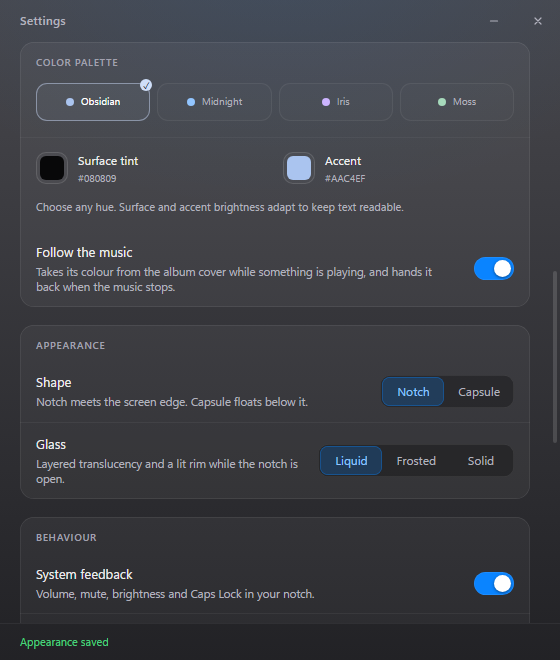
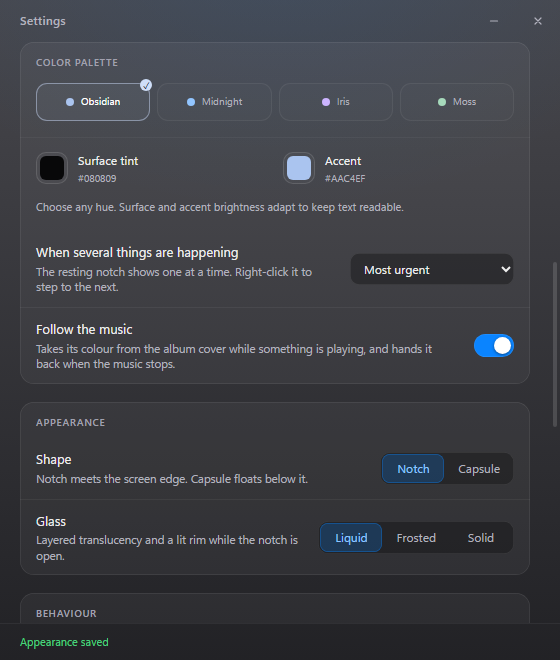
One activity on the notch at a time, and the user picks which
Music, a working agent and a countdown were all drawing into the same
strip of pixels, which is why the artwork, the run time and the
waveform overlapped into something unreadable. Exactly one of them has
the resting notch now. The Settings preference chooses, when the thing
it names is live; otherwise urgency decides, in the order the notch
already used — a transfer has an end someone is waiting on, a countdown
was set deliberately and already took the notch from music, music is
what people glance down at, and the agent is the least glanceable of
the four, so it yields by default.

Right-click steps to the next live activity, and a pair of dots in the
corner says there is one to step to. Left-click still opens the panel,
and now opens whatever the notch is showing rather than a fixed guess.

Claude's mark is the real one, from simple-icons, whose icon files are
CC0. There is no OpenAI mark: simple-icons does not carry one, which is
what happens when a brand asks to be left out, and taking a logo from a
brand page against that signal is not a call worth making inside
someone else's repository. Codex gets a mark of our own until an asset
arrives with permission attached. Provenance is in
THIRD_PARTY_NOTICES.md.

Tests: 17 unit suites and 135 renderer checks, including that two live
activities produce one visible chip and that the right button cycles.

diff --git a/src/renderer/renderer.js b/src/renderer/renderer.js
@@ -120,11 +120,59 @@ function geometryFor(name) {
   return SIZES.closed;
 }
 
-/** Nothing playing, parked, running or in flight: the notch paints nothing. */
+/**
+ * What the resting notch is for, when several things are happening at once.
+ *
+ * Music, a working agent and a countdown all want the same few pixels, and
+ * before this they simply drew on top of each other. Only one of them gets
+ * the notch: the one the user asked for if it is live, otherwise the first
+ * of these that is.
+ *
+ * The order follows what the notch already did. A transfer has an end
+ * someone is waiting on. A countdown was set deliberately and already took
+ * the notch from music. Music is the thing people glance down at constantly.
+ * A working agent is the newest of the four and the least glanceable, so it
+ * yields by default — and the preference is there for anyone who disagrees.
+ */
+const FOCUS_ORDER = ['transfer', 'timer', 'music', 'agent'];
+
+function liveActivities() {
+  return FOCUS_ORDER.filter((name) => (
+    name === 'transfer' ? transferActive
+      : name === 'agent' ? document.body.classList.contains('ai-working')
+        : name === 'timer' ? timerState.hasSession
+          : mediaVisible));
+}
+
+let focusOverride = null;
+
 function refreshIdle() {
-  const busy = mediaVisible || activeNotice || shelfItems.length || timerState.hasSession || transferActive
-    || document.body.classList.contains('ai-working') || document.body.classList.contains('ai-waiting');
+  const live = liveActivities();
+  const busy = live.length || activeNotice || shelfItems.length
+    || document.body.classList.contains('ai-waiting');
   document.body.classList.toggle('is-idle', !busy);
+
+  // The override only survives while the thing it points at is still live.
+  if (focusOverride && !live.includes(focusOverride)) focusOverride = null;
+  const preferred = preferences.notchFocus && preferences.notchFocus !== 'auto' ? preferences.notchFocus : null;
+  const focus = focusOverride
+    || (preferred && live.includes(preferred) ? preferred : null)
+    || live[0] || 'none';
+  document.body.dataset.focus = focus;
+  // More than one live activity is what makes the notch worth cycling.
+  document.body.classList.toggle('multi-activity', live.length > 1);
+  els.closedTrigger.dataset.live = String(live.length);
+}
+
+/** Step to the next live activity, so a crowded notch stays browsable. */
+function cycleFocus() {
+  const live = liveActivities();
+  if (live.length < 2) return false;
+  const current = document.body.dataset.focus;
+  focusOverride = live[(live.indexOf(current) + 1) % live.length];
+  refreshIdle();
+  renderAiSessions();
+  return true;
 }
 
 function applyVisualState() {
@@ -425,6 +473,7 @@ function flashFooter(message) {
 function setMediaVisible(visible) {
   if (visible === mediaVisible) return;
   mediaVisible = visible;
+  refreshIdle();
   if (state !== 'peek') {
     document.body.classList.toggle('has-media', visible);
     return;
@@ -797,8 +846,19 @@ card.addEventListener('mouseleave', pointerLeft);
 notch.onPointer((inside) => inside ? pointerEntered() : pointerLeft());
 notch.onDismiss(dismissOutside);
 
+const FOCUS_TAB = { transfer: 'send', agent: 'ai', timer: 'timer', music: 'media' };
+
 els.closedTrigger.addEventListener('click', () => {
-  openNotch(timerState.hasSession ? 'timer' : mediaVisible ? 'media' : 'send');
+  // Open whatever the notch is currently showing, so the click lands where
+  // the user is looking rather than on a fixed guess.
+  openNotch(FOCUS_TAB[document.body.dataset.focus] || (shelfItems.length ? 'send' : activeTab));
+});
+
+// Several things live at once: the right button steps between them. The left
+// button keeps opening the panel, which is the gesture people already know.
+els.closedTrigger.addEventListener('contextmenu', (event) => {
+  if (!cycleFocus()) return;
+  event.preventDefault();
 });
 document.querySelector('.layer-peek').addEventListener('keydown', (event) => {
   if (event.target !== event.currentTarget) return;
@@ -1196,9 +1256,12 @@ function paintClosedAgent(now = Date.now()) {
   const running = AiState.sortSessions(aiSessions, now)
     .filter((session) => AiState.kindOf(session, now) === 'working')
     .sort((a, b) => (a.startedAt || now) - (b.startedAt || now))[0];
-  els.closedAgent.hidden = !running;
+  els.closedAgent.hidden = !running || document.body.dataset.focus !== 'agent';
   if (!running) return;
   const provider = running.provider === 'codex' ? 'codex' : 'claude';
+  if (els.closedAgent.dataset.agent !== provider) {
+    els.closedAgent.querySelector('.agent-mark').replaceChildren(ProviderMarks.markElement(provider, document));
+  }
   els.closedAgent.dataset.agent = provider;
   els.closedAgent.title = (provider === 'codex' ? 'Codex' : 'Claude') + ' · ' + running.name;
   els.closedAgentTime.textContent = running.startedAt

diff --git a/src/renderer/provider-marks.js b/src/renderer/provider-marks.js
@@ -1,0 +1,56 @@
+'use strict';
+
+// Provider marks.
+//
+// Claude's mark is the official one, taken from simple-icons, which dedicates
+// its icon files under CC0 1.0. The mark itself remains Anthropic's trademark
+// and is used here only to identify Anthropic's product, which is what a mark
+// is for.
+//
+// There is no OpenAI mark here on purpose: simple-icons does not carry one,
+// which is what happens when a brand asks to be left out, and lifting a logo
+// from a brand page against that signal is not a judgement call worth making
+// inside someone else's repository. Codex therefore gets a mark of our own.
+// Drop an official asset in and point `codex` at it if you have the right to.
+
+(function (root, factory) {
+  if (typeof module === 'object' && module.exports) module.exports = factory();
+  else root.ProviderMarks = factory();
+}(typeof globalThis !== 'undefined' ? globalThis : this, function () {
+  const marks = {
+    claude: {
+      label: 'Claude',
+      viewBox: '0 0 24 24',
+      // simple-icons `claude`, CC0 1.0. Trademark of Anthropic.
+      path: 'm4.7144 15.9555 4.7174-2.6471.079-.2307-.079-.1275h-.2307l-.7893-.0486-2.6956-.0729-2.3375-.0971-2.2646-.1214-.5707-.1215-.5343-.7042.0546-.3522.4797-.3218.686.0608 1.5179.1032 2.2767.1578 1.6514.0972 2.4468.255h.3886l.0546-.1579-.1336-.0971-.1032-.0972L6.973 9.8356l-2.55-1.6879-1.3356-.9714-.7225-.4918-.3643-.4614-.1578-1.0078.6557-.7225.8803.0607.2246.0607.8925.686 1.9064 1.4754 2.4893 1.8336.3643.3035.1457-.1032.0182-.0728-.164-.2733-1.3539-2.4467-1.445-2.4893-.6435-1.032-.17-.6194c-.0607-.255-.1032-.4674-.1032-.7285L6.287.1335 6.6997 0l.9957.1336.419.3642.6192 1.4147 1.0018 2.2282 1.5543 3.0296.4553.8985.2429.8318.091.255h.1579v-.1457l.1275-1.706.2368-2.0947.2307-2.6957.0789-.7589.3764-.9107.7468-.4918.5828.2793.4797.686-.0668.4433-.2853 1.8517-.5586 2.9021-.3643 1.9429h.2125l.2429-.2429.9835-1.3053 1.6514-2.0643.7286-.8196.85-.9046.5464-.4311h1.0321l.759 1.1293-.34 1.1657-1.0625 1.3478-.8804 1.1414-1.2628 1.7-.7893 1.36.0729.1093.1882-.0183 2.8535-.607 1.5421-.2794 1.8396-.3157.8318.3886.091.3946-.3278.8075-1.967.4857-2.3072.4614-3.4364.8136-.0425.0304.0486.0607 1.5482.1457.6618.0364h1.621l3.0175.2247.7892.522.4736.6376-.079.4857-1.2142.6193-1.6393-.3886-3.825-.9107-1.3113-.3279h-.1822v.1093l1.0929 1.0686 2.0035 1.8092 2.5075 2.3314.1275.5768-.3218.4554-.34-.0486-2.2039-1.6575-.85-.7468-1.9246-1.621h-.1275v.17l.4432.6496 2.3436 3.5214.1214 1.0807-.17.3521-.6071.2125-.6679-.1214-1.3721-1.9246L14.38 17.959l-1.1414-1.9428-.1397.079-.674 7.2552-.3156.3703-.7286.2793-.6071-.4614-.3218-.7468.3218-1.4753.3886-1.9246.3157-1.53.2853-1.9004.17-.6314-.0121-.0425-.1397.0182-1.4328 1.9672-2.1796 2.9446-1.7243 1.8456-.4128.164-.7164-.3704.0667-.6618.4008-.5889 2.386-3.0357 1.4389-1.882.929-1.0868-.0062-.1579h-.0546l-6.3385 4.1164-1.1293.1457-.4857-.4554.0608-.7467.2307-.2429 1.9064-1.3114Z',
+      filled: true,
+    },
+    codex: {
+      label: 'Codex',
+      viewBox: '0 0 24 24',
+      // Ours: a hexagonal knot, which reads as "the other one" beside Claude's
+      // burst without pretending to be anybody's logo.
+      path: 'M12 2.6 20.1 7v10L12 21.4 3.9 17V7Zm0 3.3L6.8 8.9v6.2L12 18.1l5.2-3V8.9Zm0 3.2 2.4 1.4v2.8L12 14.7l-2.4-1.4v-2.8Z',
+      filled: true,
+    },
+  };
+
+  /** The mark for a provider, falling back to Claude's for anything unknown. */
+  function markFor(provider) {
+    return marks[provider] || marks.claude;
+  }
+
+  /** An <svg> for a provider, ready to drop into the DOM. */
+  function markElement(provider, document) {
+    const mark = markFor(provider);
+    const svg = document.createElementNS('http://www.w3.org/2000/svg', 'svg');
+    svg.setAttribute('viewBox', mark.viewBox);
+    svg.setAttribute('aria-hidden', 'true');
+    const path = document.createElementNS('http://www.w3.org/2000/svg', 'path');
+    path.setAttribute('d', mark.path);
+    svg.append(path);
+    return svg;
+  }
+
+  return { marks, markFor, markElement };
+}));

diff --git a/test/renderer-smoke.js b/test/renderer-smoke.js
@@ -97,6 +97,12 @@ function solidCover([r, g, b], size = 64) {
   return require('../src/png').encodePNG(size, size, rgba);
 }
 
+/** The control panel opens later in the run; skip quietly until it does. */
+async function pjsOrSkip(source) {
+  if (!panelWin || panelWin.isDestroyed()) return null;
+  return pjs(source);
+}
+
 async function cssColor(token) {
   const value = await js(`getComputedStyle(document.documentElement).getPropertyValue(${JSON.stringify(token)}).trim()`);
   const rgb = value.match(/\d+/g);
@@ -204,9 +210,30 @@ app.whenReady().then(async () => {
     check(!agent.hidden && agent.shown && agent.provider === 'claude' && /^\d+:\d\d$/.test(agent.time) && !agent.idle,
       'a working agent shows its provider and running time on the resting notch (' + agent.time + ')');
     await snapshot('closed-agent');
+    // Two things live at once used to mean two things drawn on top of each
+    // other. Exactly one gets the notch, and the user can choose which.
+    emit('now-playing', { type: 'state', session: true, title: 'A Quiet Morning', artist: 'Local artist',
+      app: 'Spotify.exe', status: 'Playing', duration: 240, position: 12, thumb: fixtureArt,
+      canPause: true, canNext: true, canPrev: true, canSeek: true, sources: ['Spotify.exe'] });
+    await settled();
+    check(await js(`JSON.stringify(liveActivities()) === '["music","agent"]' && document.body.dataset.focus === 'music'
+      && document.getElementById('closed-agent').hidden
+      && document.body.classList.contains('multi-activity')`),
+      'with music and an agent both live the notch shows one of them, not both');
+
+    await js(`els.closedTrigger.dispatchEvent(new MouseEvent('contextmenu', { bubbles: true, cancelable: true }))`);
+    await delay(200);
+    check(await js(`document.body.dataset.focus === 'agent' && !document.getElementById('closed-agent').hidden
+      && getComputedStyle(document.getElementById('closed-art')).display === 'none'`),
+      'the right button steps to the next live activity');
+
+    await pjsOrSkip(`{ const select = document.querySelector('[data-preference="notchFocus"]'); select.value = 'agent'; select.dispatchEvent(new Event('change')); }`);
+    emit('now-playing', { type: 'state', session: false });
+    await settled();
     emit('ai', []);
     await settled();
-    check(await js(`document.getElementById('closed-agent').hidden && document.body.classList.contains('is-idle')`),
+    check(await js(`document.getElementById('closed-agent').hidden && document.body.classList.contains('is-idle')
+      && !document.body.classList.contains('multi-activity')`),
       'the notch goes quiet again when the agent finishes');
 
     await js(`document.getElementById('closed-trigger').click()`);

diff --git a/src/renderer/islet.css b/src/renderer/islet.css
@@ -562,26 +562,49 @@ body.ai-working.state-closed:not(.has-files):not(.has-media):not(.has-timer) .cl
   width: 13px;
   height: 13px;
   flex: 0 0 auto;
-  background: currentColor;
+  display: grid;
+  place-items: center;
   /* A quiet pulse, so a long run never looks frozen. */
   animation: agent-pulse 2.4s ease-in-out infinite;
 }
 
-.closed-agent[data-agent="claude"] .agent-mark {
-  -webkit-mask: conic-gradient(from 0deg,
-    currentColor 0 7deg, transparent 7deg 53deg, currentColor 53deg 67deg, transparent 67deg 113deg,
-    currentColor 113deg 127deg, transparent 127deg 173deg, currentColor 173deg 187deg, transparent 187deg 233deg,
-    currentColor 233deg 247deg, transparent 247deg 293deg, currentColor 293deg 307deg, transparent 307deg 353deg,
-    currentColor 353deg 360deg) center / 100% 100% no-repeat;
-}
-
-.closed-agent[data-agent="codex"] .agent-mark {
-  -webkit-mask:
-    radial-gradient(closest-side, transparent 52%, currentColor 54% 72%, transparent 74%) center / 100% 100% no-repeat;
-}
+.agent-mark svg { width: 100%; height: 100%; fill: currentColor; }
 
 .agent-time { color: #c2c2cc; }
 
 @keyframes agent-pulse { 50% { opacity: .5; } }
 
 @media (prefers-reduced-motion: reduce) { .agent-mark { animation: none; } }
+
+/* --- one activity at a time ------------------------------------------------
+
+   Music, a working agent and a countdown all want the same strip of pixels.
+   They used to draw on top of each other; now exactly one of them has the
+   notch, chosen by the Settings preference when it is live and by urgency
+   otherwise. The right button steps to the next one. */
+
+body[data-focus="agent"] #closed-art,
+body[data-focus="agent"] .equalizer,
+body[data-focus="timer"] #closed-art,
+body[data-focus="timer"] .equalizer,
+body[data-focus="transfer"] #closed-art,
+body[data-focus="transfer"] .equalizer,
+body[data-focus="transfer"] .closed-agent { display: none !important; }
+
+body[data-focus="music"] .closed-agent,
+body[data-focus="timer"] .closed-agent { display: none !important; }
+
+/* With more than one thing live, a pair of dots says the notch has another
+   page behind it, and the right button turns it. */
+body.multi-activity.state-closed .layer-closed::after {
+  content: '';
+  position: absolute;
+  right: 7px;
+  bottom: 4px;
+  width: 9px;
+  height: 3px;
+  border-radius: 2px;
+  background: linear-gradient(90deg, currentColor 0 3px, transparent 3px 6px, #ffffff2e 6px 9px);
+  color: #ffffff6e;
+  pointer-events: none;
+}

diff --git a/src/main.js b/src/main.js
@@ -96,12 +96,15 @@ function saveSettings() {
 }
 
 const GLASS_LEVELS = ['high', 'medium', 'off'];
+// What the resting notch shows when several things are happening at once.
+const NOTCH_FOCUS = ['auto', 'transfer', 'timer', 'music', 'agent'];
 
 function clientPreferences() {
   return { ...NotchAppearance.normalize(settings), autoDismiss: settings.autoDismiss !== false, musicPreview: settings.musicPreview !== false,
     systemFeedback: settings.systemFeedback !== false, musicColors: settings.musicColors !== false,
     gestures: settings.gestures !== false, silhouette: settings.silhouette === 'capsule' ? 'capsule' : 'notch',
     glass: GLASS_LEVELS.includes(settings.glass) ? settings.glass : 'high',
+    notchFocus: NOTCH_FOCUS.includes(settings.notchFocus) ? settings.notchFocus : 'auto',
     displayMode: DISPLAY_MODES.includes(settings.displayMode) ? settings.displayMode : 'selected',
     displayId: displayController?.snapshot().preferredDisplayId ?? screen.getPrimaryDisplay().id };
 }
@@ -120,6 +123,7 @@ function applyPreferencePatch(patch) {
   }
   if (['notch', 'capsule'].includes(patch?.silhouette)) settings.silhouette = patch.silhouette;
   if (GLASS_LEVELS.includes(patch?.glass)) settings.glass = patch.glass;
+  if (NOTCH_FOCUS.includes(patch?.notchFocus)) settings.notchFocus = patch.notchFocus;
   if (DISPLAY_MODES.includes(patch?.displayMode)) settings.displayMode = patch.displayMode;
   const display = screen.getAllDisplays().find((d) => d.id === patch?.displayId);
   if (display) {

diff --git a/src/renderer/settings.html b/src/renderer/settings.html
@@ -54,6 +54,19 @@
       <div id="color-presets" class="color-presets" role="group" aria-label="Color presets"></div>
       <div class="custom-colors"><label class="color-control" for="surface-tint"><input id="surface-tint" type="color" value="#080809" data-appearance="surfaceTint" /><span>Surface tint<small id="surface-tint-value">#080809</small></span></label><label class="color-control" for="accent-color"><input id="accent-color" type="color" value="#aac4ef" data-appearance="accentColor" /><span>Accent<small id="accent-color-value">#AAC4EF</small></span></label></div>
       <p class="control-detail color-detail">Choose any hue. Surface and accent brightness adapt to keep text readable.</p>
+      <div class="row">
+        <div class="row-text">
+          <span class="row-title">When several things are happening</span>
+          <span class="row-detail">The resting notch shows one at a time. Right-click it to step to the next.</span>
+        </div>
+        <select data-preference="notchFocus" aria-label="What the resting notch shows">
+          <option value="auto">Most urgent</option>
+          <option value="transfer">Transfers</option>
+          <option value="timer">Timer</option>
+          <option value="music">Music</option>
+          <option value="agent">AI agent</option>
+        </select>
+      </div>
       <label class="row">
         <div class="row-text">
           <span class="row-title">Follow the music</span>

diff --git a/src/renderer/index.html b/src/renderer/index.html
@@ -215,6 +215,7 @@
   <script src="notch-geometry.js"></script>
   <script src="notch-motion.js"></script>
   <script src="artwork-palette.js"></script>
+  <script src="provider-marks.js"></script>
   <script src="notch-activity.js"></script>
   <script src="media-state.js"></script>
   <script src="ai-state.js"></script>

diff --git a/THIRD_PARTY_NOTICES.md b/THIRD_PARTY_NOTICES.md
@@ -35,3 +35,14 @@ Adapted files and concepts:
 Platform integrations are implemented for Windows/Electron. Islet is
 an independent adaptation; it is not an official Vorssaint release. Vorssaint's
 name, icons, logo, signing identity and update feed are not used as this app's branding.
+
+# Provider marks
+
+`src/renderer/provider-marks.js` carries Claude's mark, taken from
+[simple-icons](https://github.com/simple-icons/simple-icons), whose icon files
+are dedicated under CC0 1.0. The mark is a trademark of Anthropic and is used
+only to identify Anthropic's product.
+
+No OpenAI mark is included. simple-icons does not carry one, which is what
+happens when a brand asks to be left out, so Codex is shown with a mark of our
+own rather than a logo lifted from a brand page against that signal.
